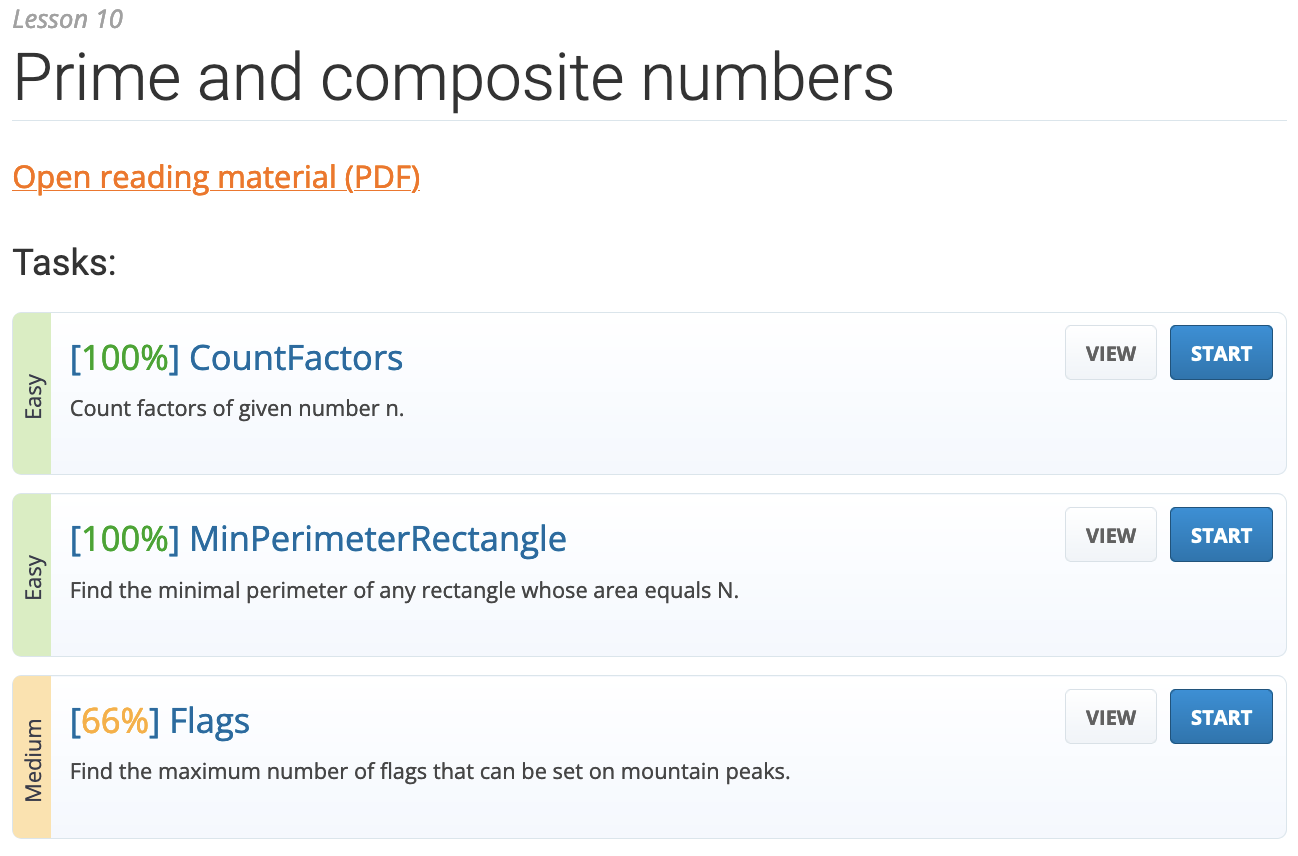
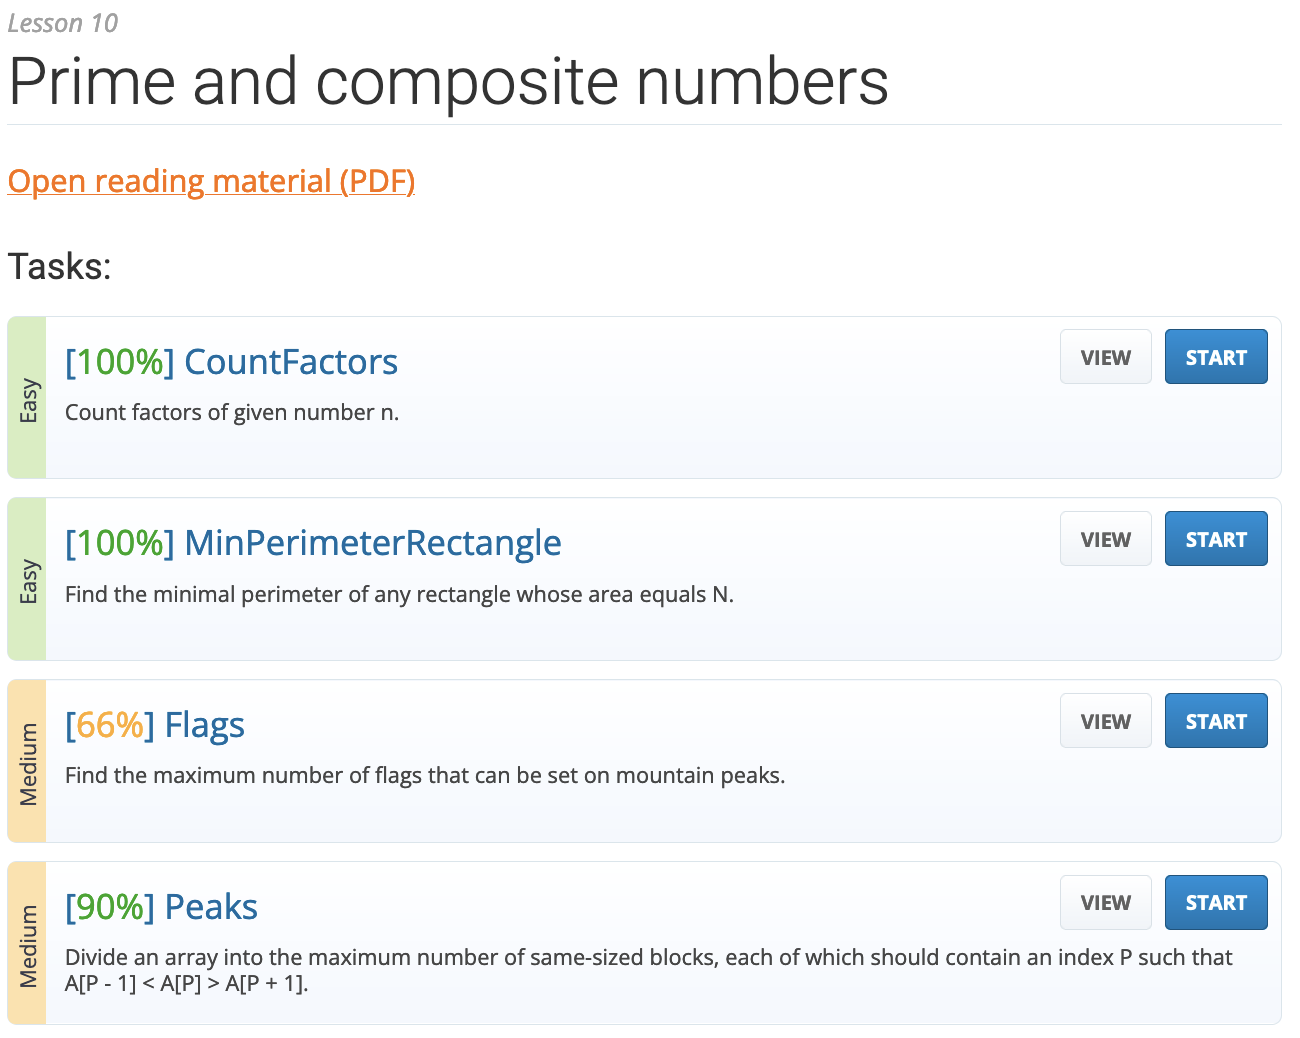
Added solution

diff --git a/src/main/java/com/example/demo/Peaks.java b/src/main/java/com/example/demo/Peaks.java
@@ -1,0 +1,67 @@
+package com.example.demo;
+
+import java.util.*;
+
+public class Peaks {
+
+    public int solution(int[] A) {
+        if (A.length < 3) {
+            return 0;
+        }
+        Set<Integer> set = new HashSet<>();
+        int x = (int)Math.sqrt(A.length);
+        for (int i = 1; i <= x; ++i) {
+            if (A.length % i == 0) {
+                set.add(i);
+                set.add(A.length / i);
+            }
+        }
+        List<Integer> factors = new ArrayList<>(set);
+        Collections.sort(factors);
+        int result = 0;
+        for (int factor : factors) {
+            int size = A.length / factor;
+            int[][] blocks = new int[factor][size];
+            int index = 0;
+            for (int j = 0; j < factor; ++j) {
+                for (int k = 0; k < size; ++k) {
+                    blocks[j][k] = A[index];
+                    ++index;
+                }
+            }
+            boolean noPeak = false;
+            for (int j = 0; j < factor; ++j) {
+                if (noPeak) {
+                    break;
+                }
+                boolean hasPeak = false;
+                for (int k = 0; k < size; ++k) {
+                    if (size >= 3 && k > 0 && k < size - 1 && blocks[j][k - 1] < blocks[j][k] && blocks[j][k] > blocks[j][k + 1]) {
+                        hasPeak = true;
+                    }
+                    else if (k == 0 || k == size - 1) {
+                        if (size == 1 && j > 0 && j < factors.size() - 1 && blocks[j - 1][0] < blocks[j][0] && blocks[j][0] > blocks[j + 1][0]) {
+                            hasPeak = true;
+                        }
+                        else if (size > 1 && factor > 1) {
+                            if (k == 0 && j > 0 && blocks[j - 1][size - 1] < blocks[j][0] && blocks[j][0] > blocks[j][1]) {
+                                hasPeak = true;
+                            }
+                            else if (k == size - 1 && j < factor - 1 && blocks[j][size - 2] < blocks[j][size - 1] && blocks[j][size - 1] > blocks[j + 1][0]) {
+                                hasPeak = true;
+                            }
+                        }
+                    }
+                    if (k == size - 1 && !hasPeak) {
+                        noPeak = true;
+                        break;
+                    }
+                }
+                if (j == factor - 1 && !noPeak) {
+                    result = factor;
+                }
+            }
+        }
+        return result;
+    }
+}

diff --git a/README.md b/README.md
@@ -1,11 +1,11 @@
 ## Codility Scores
-This repository contains scores of 30 Codility practice problems from their web site.
+This repository contains scores of 31 Codility practice problems from their web site.
 The scores are located in the resources/scores directory. The scores shown are the
 total scores which are based on a correctness score and a performance score. The
-correctness scores for all 30 problems are 100%. Total scores of less than 100% are
+correctness scores for all 31 problems are 100%. Total scores of less than 100% are
 the result of performance scores that are less than 100%. 
 
-This repository also contains the code that I wrote for 7 of the practice problems.
+This repository also contains the code that I wrote for 8 of the practice problems.
 Links to the task descriptions for those problems are shown below.
 
 ## Task Descriptions
@@ -22,3 +22,5 @@ Links to the task descriptions for those problems are shown below.
 [Min Perimeter Rectangle](https://app.codility.com/programmers/lessons/10-prime_and_composite_numbers/min_perimeter_rectangle/)
 
 [Stone Wall](https://app.codility.com/programmers/lessons/7-stacks_and_queues/stone_wall/)
+
+[Peaks](https://app.codility.com/programmers/lessons/10-prime_and_composite_numbers/peaks/)
